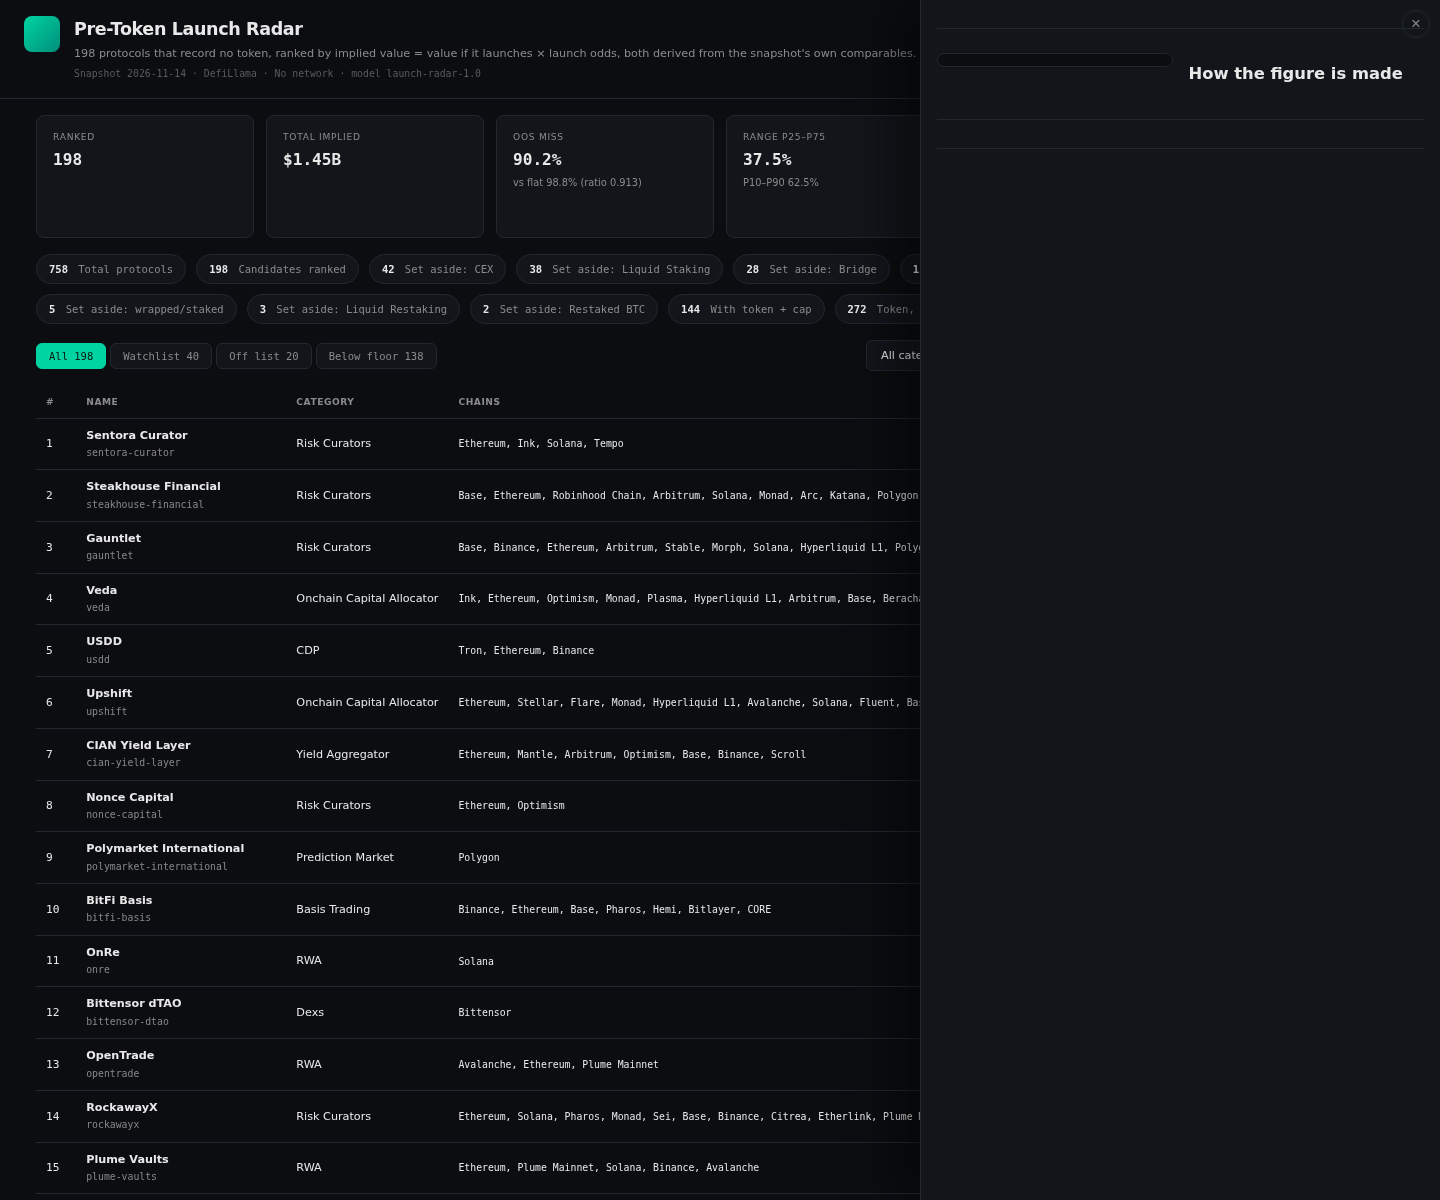
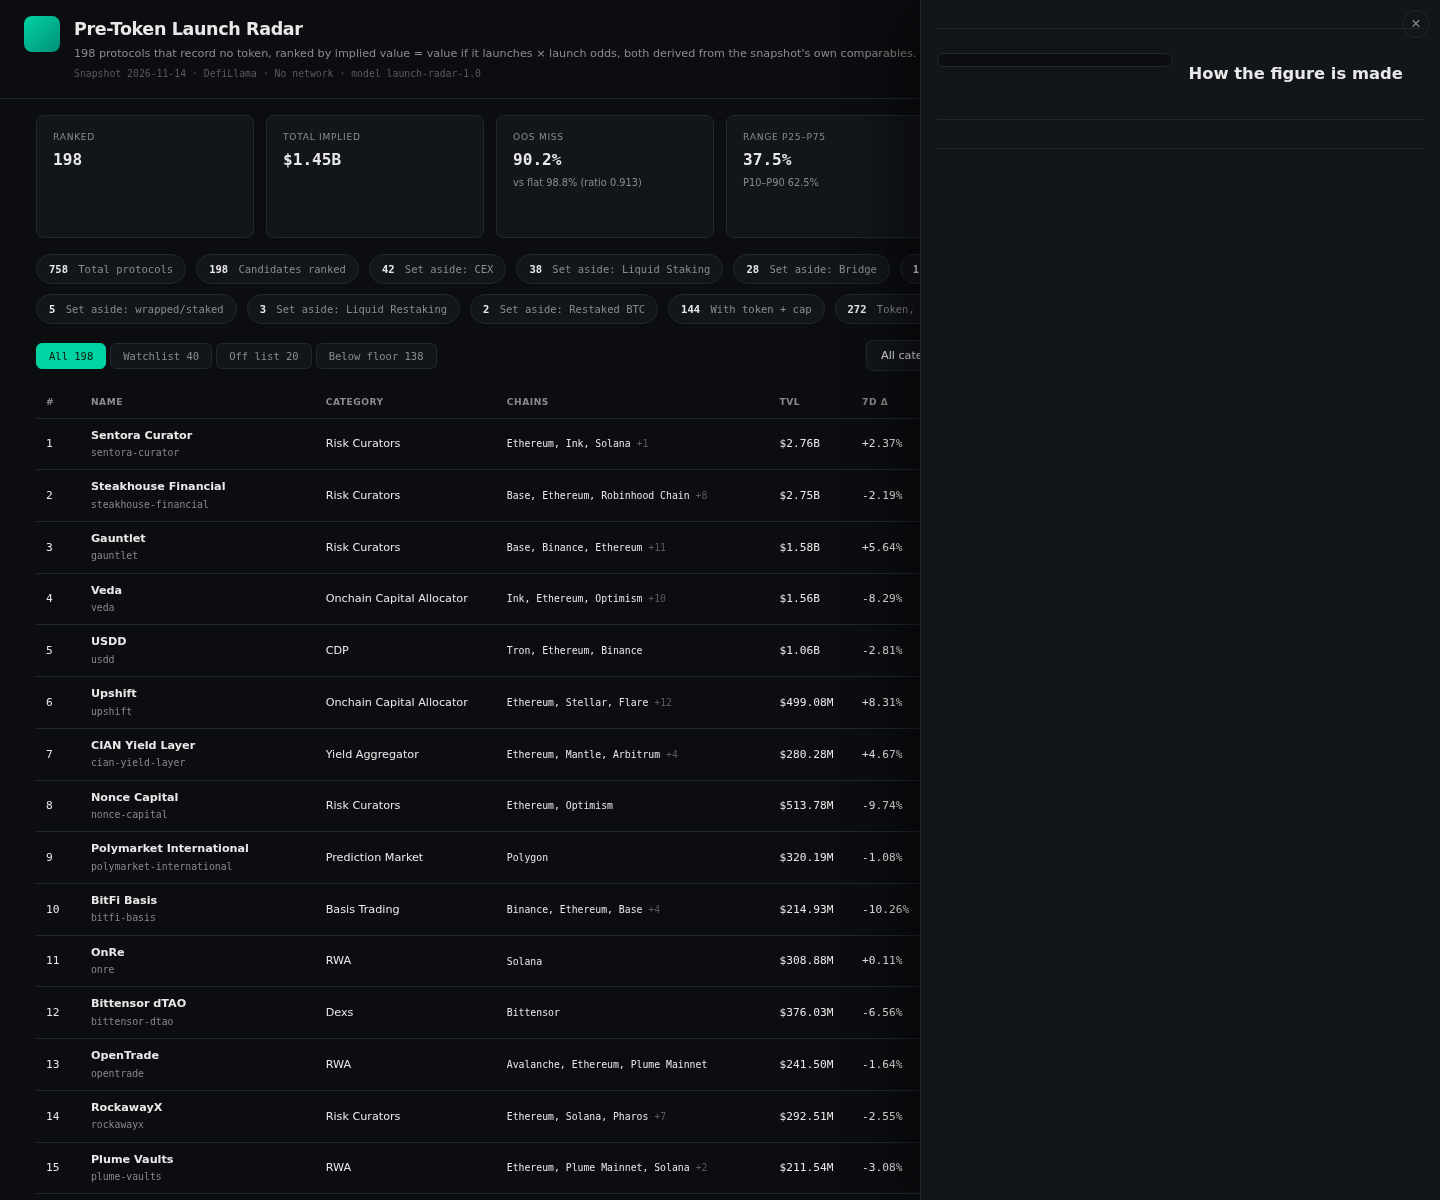
dashboard layout fixes, chain cell clamp, README

diff --git a/dashboard/app.css b/dashboard/app.css
@@ -58,6 +58,18 @@ h1{margin:0;font-size:1.25rem;font-weight:700;letter-spacing:-.02em}
 /* detail */
 .detail{position:fixed;top:0;right:0;bottom:0;width:520px;max-width:100vw;background:var(--card);border-left:1px solid var(--line);overflow-y:auto;z-index:100;padding:var(--pad);display:flex;flex-direction:column;box-shadow:-24px 0 48px rgba(0,0,0,.45)}
 body.detail-open .topbar,body.detail-open .kpi,body.detail-open .cohort,body.detail-open .tabs,body.detail-open .tablewrap,body.detail-open .method{padding-right:536px}
+body.detail-open .tablewrap{max-width:calc(100vw - 536px)}
+/* detail panel repeats category/chains/age/odds, so the board drops them and fits without hscroll */
+body.detail-open #board th:nth-child(3),
+body.detail-open #board td:nth-child(3),
+body.detail-open #board th:nth-child(4),
+body.detail-open #board td:nth-child(4),
+body.detail-open #board th:nth-child(7),
+body.detail-open #board td:nth-child(7),
+body.detail-open #board th:nth-child(9),
+body.detail-open #board td:nth-child(9){display:none}
+body.detail-open #board th,body.detail-open #board td{padding:7px 6px}
+body.detail-open .d-value{font-size:1.5rem}
 .close{position:absolute;top:10px;right:10px;width:28px;height:28px;border:1px solid var(--line);background:transparent;color:var(--muted);border-radius:50%;font-size:1.2rem;cursor:pointer;line-height:1}
 .close:hover{background:var(--bg);color:var(--fg)}
 .d-head{margin-bottom:16px;padding-bottom:12px;border-bottom:1px solid var(--line)}

diff --git a/dashboard/app.js b/dashboard/app.js
@@ -67,6 +67,12 @@ function renderTabs(){
 
 /* Table */
 let sortCol='rank', sortDir=1;
+function chainCell(chains){
+  if(!chains||!chains.length) return '\u2014';
+  const head=chains.slice(0,3).join(', ');
+  const rest=chains.length-3;
+  return esc(head)+(rest>0?` <span class=chain-more style="color:#5a5a5a">+${rest}</span>`:'');
+}
 function renderTable(){
   let rows=ROWS.filter(r=>{
     if(activeTab!=='all' && r.status!==activeTab) return false;
@@ -95,7 +101,7 @@ function renderTable(){
       <td class=mono>${r.rank}</td>
       <td><strong>${esc(r.name)}</strong><br><span class=mono style="color:#888;font-size:.7rem">${esc(r.slug)}</span></td>
       <td>${esc(r.category)}</td>
-      <td class=mono style="font-size:.7rem">${r.chains.join(', ')}</td>
+      <td class=mono style="font-size:.7rem" title="${esc(r.chains.join(', '))}">${chainCell(r.chains)}</td>
       <td class=mono>${fmt(r.tvl_usd)}</td>
       <td class=mono>${r.change_7d==null?'—':(r.change_7d>=0?'+':'')+r.change_7d.toFixed(2)+'%'}</td>
       <td class=mono>${fmtDays(r.age_days)}</td>

diff --git a/README.md b/README.md
@@ -1,0 +1,81 @@
+# Pre-Token Launch Radar
+
+Ranks the 198 pre-token protocols in the `token-radar-01` snapshot by **implied value** — what the token would be worth if it launched, times the odds it launches — with both figures derived from the snapshot's own comparables.
+
+![build](https://img.shields.io/badge/build-passing-00d4a3) ![model](https://img.shields.io/badge/model-power--law%20%2B%20hazard-00d4a3) ![network](https://img.shields.io/badge/network-none%20at%20runtime-8b8b8b)
+
+## What it does
+
+The snapshot holds 758 protocols. Only 198 are honest candidates:
+
+| Cohort | Count | Why |
+|---|---|---|
+| Candidates ranked | **198** | no token, no cap, not a derivative |
+| Set aside: CEX | 42 | exchange product, not a protocol |
+| Set aside: Liquid Staking | 38 | derivative of a base asset |
+| Set aside: Bridge | 28 | infrastructure, not a launch candidate |
+| Set aside: Canonical Bridge | 15 | same |
+| Set aside: versioned name | 11 | `V2`/`2.0` — a version, not a new protocol |
+| Set aside: wrapped/staked | 5 | derivative by name |
+| Set aside: Liquid Restaking | 3 | derivative |
+| Set aside: Restaked BTC | 2 | derivative |
+| With token + cap | 144 | already trading, shown separately |
+| Token records, no cap | 272 | unknown size, excluded from the fit |
+
+The old failure mode was ranking `Binance CEX` first at a $9.98B implied value. A CEX is excluded by the snapshot's own rules, so it cannot be a launch candidate at all.
+
+## The model
+
+```
+mcap ≈ exp(6.9646) × TVL^0.5223        R² in log space, fitted on 128 comparables
+premium = category median, shrunk      w = n/(n+5) toward the snapshot-wide 1.0753
+odds    = 1 − exp(−λ·2y)               λ shrunk per category, global 0.5019
+implied = value_if_launch × odds
+```
+
+Held-out test: every 4th comparable is removed from the fit.
+
+| | miss |
+|---|---|
+| power law | **90.19%** |
+| flat multiple | 98.78% |
+| **ratio** | **0.913** |
+
+Below 1.0 means the size curve beats the flat baseline, but only by 8.7% — the method panel says exactly that instead of overselling it. Range: P25 ×0.311, P50 ×1.075, P75 ×4.110. The band is wide and the dashboard shows the width rather than hiding it.
+
+Guards, asserted in code: no row exceeds 4× its own TVL, nothing above $1.5B, ranks 1..198 non-increasing.
+
+## Farm plan
+
+Every row gets 7 steps generated from its own numbers — chain and why, deposit, onboarding, 12 separate weekly touches, a review date from `1/λ`, an exit rule on TVL, and a closing line with at-risk capital, fees and expected airdrop. Heuristic EV across 3 deposits × 3 drop shares with per-chain gas: Solana $0.02, Base $0.05, Arbitrum $0.10, Optimism/Polygon $0.30, Ethereum $3.00.
+
+Verdict split: **FARM 105**, MARGINAL 57, SKIP 36.
+
+## Run it
+
+```bash
+MAKEFUN_OUTPUT_DIR=out1 node main.ts --input input/snapshot.json
+python3 validate.py out1        # or the harness validator
+```
+
+Deterministic: two runs produce byte-identical `board.json` (`1a98ba05…`).
+
+## Layout
+
+```
+lib/model.ts      1,184 lines — classification, size curve, premium, odds, farm plan
+main.ts           wiring and output
+dashboard/        3 files, 23 KB, zero network addresses
+screenshots/      3 frames: board, detail view, FARM filter
+```
+
+Dashboard: KPI strip, cohort accounting, sortable table with filters and search, per-protocol detail panel with its own arithmetic in six numbered lines. Renders offline.
+
+## Limits
+
+- Odds are a hazard estimate, not a promise. A protocol with 89% odds can still never launch.
+- The comparables are TVL-matched, not sector-matched at small n; categories with fewer than 5 comparable use the global premium.
+- Farm EV is a heuristic with assumed drop share, not a forecast.
+- Not investment advice.
+
+MIT.
